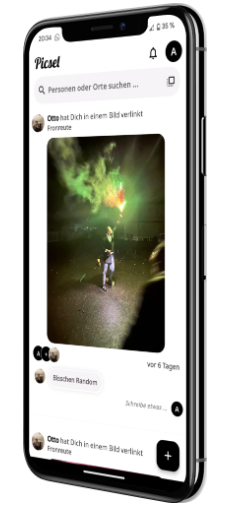
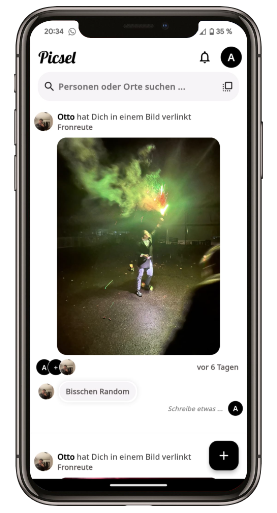
bilder gefixt

diff --git a/src/routes/+page.svelte b/src/routes/+page.svelte
@@ -39,13 +39,13 @@
 			</div>
 		</div>
 		<div class="lg:mt-0 lg:col-span-5 lg:flex">
-			<img alt="mockup" src={screenshot1}  />
+			<img alt="mockup" src={screenshot2}  />
 		</div>
 	</div>
 
 	<div class="grid max-w-screen-xl px-2 py-8 mx-auto lg:gap-8 xl:gap-0 lg:py-16 lg:grid-cols-12">
 		<div class="lg:mt-0 lg:col-span-7 lg:flex">
-			<img alt="mockup2"  src={screenshot2} />
+			<img alt="mockup2"  src={screenshot1} />
 		</div>
 		<div class="mx-auto place-self-center lg:col-span-5 ">
 			<h1
